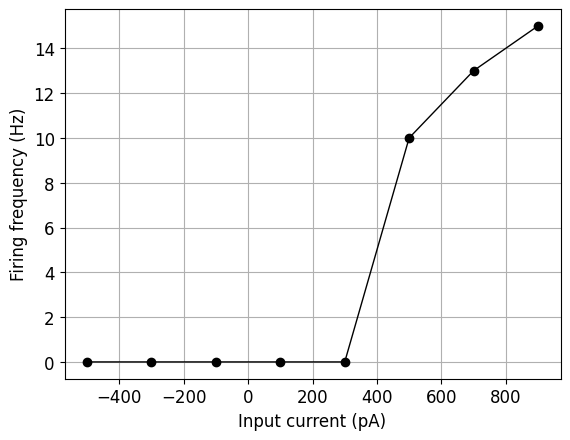
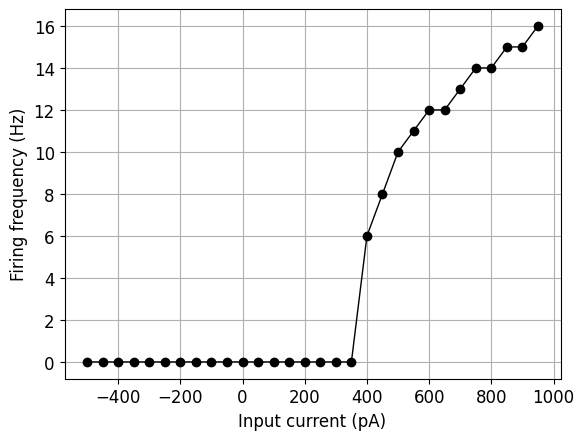
First Working Version of the Standardised MD Script

diff --git a/Standardised_MD_Script/MD-script.py b/Standardised_MD_Script/MD-script.py
@@ -1,93 +1,261 @@
-#
-#
-#
-#
+from pyneuroml.pynml import read_lems_file, read_neuroml2_file
+from pyneuroml.plot import PlotMorphology, generate_plot
+from pyneuroml.analysis import generate_current_vs_frequency_curve
 
-from pyneuroml.pynml import *
-from pyneuroml.plot import PlotMorphology
-from pyneuroml.analysis import NML2ChannelAnalysis, generate_current_vs_frequency_curve
+import numpy as np
+import subprocess
+import argparse
+
+def command_line_parser():
+    """Parse command-line arguments.
+
+    :returns: None
+    """
+    parser = argparse.ArgumentParser(
+        description = "A script which can generate a standardised MD document displaying all key behaviours of an NML cell model"
+    )
+
+    parser.add_argument(
+        "-model",
+        type = str,
+        metavar = "<model>",
+        help = "Get cell model name",
+        required = True
+    )
+
+    parser.add_argument(
+        "-cellfile",
+        type = str,
+        metavar = "<cellfile>",
+        help = "Get NML2 cell file",
+        required = True
+    )
+
+    parser.add_argument(
+        "-netfile",
+        type = str,
+        metavar = "<netfile>",
+        help = "Get NML2 network file",
+        default = "False",
+        required = False
+    )
+
+    parser.add_argument(
+        "-lemsfile",
+        type = str,
+        metavar = "<lemsfile>",
+        help = "Get LEMS simulation file",
+        default = "False",
+        required = False
+    )
+
+    """
+    parser.add_argument(
+        "-nogui",
+        action = "store_true",
+        help = "Do not plot matplotlib generated graphs",
+        default = False
+    )
+    """
+    
+    parser.add_argument(
+        "-nosim",
+        action = "store_true",
+        help = "Do not perform simulations and use already existing files",
+        default = False
+    )
+
+    parser.add_argument(
+        "-nomd",
+        action = "store_true",
+        help = "Do not create a new MD or alter an existing MD file",
+        default = False
+    )
+    
+    return parser.parse_args()
+
+def generate_morphology(file, name, save = True, nogui = False):
+    if save:
+        file = "imgs/" + name + ".png"
+    else:
+        file = None
+
+    PlotMorphology.plot_2D(
+        file,
+        nogui = nogui,
+        save_to_file = "imgs/" + name + ".png",
+        title = name
+        )
+
+def get_channels_from_info(info):
+    info = info.split("\n")
+    channels = info[5]
+    channels = eval(channels[15:])
+    return channels
+
+def run_channel_analysis(channels, save = False, nogui = False):
+    script_name = "channel-analysis-script.sh"
+
+    if save:
+        file = "imgs/" + name + ".png"
+    else:
+        file = None
+
+    #Create pynml-channelanalysis bash command
+    command = "pynml-channelanalysis"
+    for i in range(len(channels)):
+        command = command + " generatedNeuroML2/" + str(channels[i]) + ".channel.nml"
+
+    try:
+        with open(script_name, "x") as file:
+            pass
+    except FileExistsError:
+        pass
+
+    with open(script_name, 'w') as file:
+        file.write(command)
+
+    result = subprocess.run(['bash', script_name], stderr="PIPE")
+
+    if result.returncode == 0:
+        print(result.stderr)
+
+def generate_if_iv(file, name, cell, start = -0.5, end = 1, step = 0.05, time = 0.025, duration = 1000, delay = 0, save = False, pre = 0, post = 0, nogui = False):
+    if save:
+        vt_name = "imgs/" + name + "_Vtraces.png"
+        if_name = "imgs/" + name + "IF.png"
+        iv_name = "imgs/" + name + "IV.png"
+    else:
+        vt_name = None
+        if_name = None
+        iv_name = None
+
+    generate_current_vs_frequency_curve(
+        file,
+        cell,
+        start_amp_nA = start,
+        end_amp_nA = end,
+        step_nA = step,
+        dt = time,
+        simulator = "jNeuroML_NEURON",
+        plot_voltage_traces = not nogui,
+        plot_iv = not nogui,
+        plot_if = not nogui,
+        analysis_duration = duration,
+        analysis_delay = delay,
+        save_voltage_traces_to = vt_name,
+        save_if_figure_to = if_name,
+        save_iv_figure_to = iv_name,
+        pre_zero_pulse = pre,
+        post_zero_pulse = post
+        )
+
+def generate_if_iv_custom(file, name, cell, custom = [-0.5,0,0.5,1], time = 0.025, duration = 1000, delay = 0, save = False, pre = 0, post = 0, nogui = False):
+    if save:
+        vt_name = "imgs/" + name + "_Vtraces.png"
+    else:
+        vt_name = None
+
+    generate_current_vs_frequency_curve(
+        file,
+        cell,
+        custom_amps_nA = custom,
+        dt = time,
+        simulator = "jNeuroML_NEURON",
+        plot_voltage_traces = not nogui,
+        plot_iv = not nogui,
+        plot_if = not nogui,
+        analysis_duration = duration,
+        analysis_delay = delay,
+        save_voltage_traces_to = vt_name,
+        pre_zero_pulse = pre,
+        post_zero_pulse = post
+        )
+
+def generate_custom_plot(dat_file, delay = False, save = False, nogui = False):
+    data_array = np.loadtxt(dat_file)
+    l1 = int(len(data_array[:,0]) / 11)
+    l2 = int(len(data_array[:,1]) / 11)
+    if delay:
+        data_array = data_array[l1:]
+
+    if not save:
+        file = None
+    else:
+        file = save
+
+    generate_plot(
+        [data_array[:, 0]], [data_array[:, 1]],
+	    "Membrane potential", show_plot_already = not nogui,
+        save_figure_to = file,
+	    xaxis="time (s)", yaxis="membrane potential (V)"
+        )
 
 if __name__ == "__main__":
-    #file = input("Enter the network file: ")
-    #cell_file = input("Enter the cell file: ")
-    #lems_file = input("Enter the LEMS file: ")
-
+    #Parse Command Line
+    args = command_line_parser()
+    print(args)
+    
     #NeuroML and LEMS files
-    #file = "../L5bPyrCellHayEtAl2011.net.nml"
-    name = "Hay2011L5bPyramidalCell"
+    name = args.model
     file_name = name + ".md"
-    file = "generatedNeuroML2/TestL5PC.net.nml"
-    cell_file = "generatedNeuroML2/L5PC.cell.nml"
-    lems_file = "generatedNeuroML2/LEMS_TestL5PC.xml"
+    file = args.netfile
+    cell_file = args.cellfile
+    lems_file = args.lemsfile
 
     #Load NML2 and LEMS Models
     lems_model = read_lems_file(lems_file, include_includes=True)
     nml_doc = read_neuroml2_file(cell_file, include_includes=True)
     cell = nml_doc.cells[0]
     print('%s %s' %(cell.id, cell.notes))
-
-    #List Channels
-    #info = cell_info(cell)
-    #print('%s' %(info))
-
-    #Plot Morphology
-    PlotMorphology.plot_2D(
-        file,
-        nogui = True,
-        save_to_file="imgs/" + name + ".png",
-        title = name
-        )
+    print(cell.id)
     
-    #Get Includes
+    #Get Metadata
     info = nml_doc.summary(show_includes=True)
-    print(info)
+    channels = get_channels_from_info(info)
 
-    #IV & IF Curves
-    """
-    generate_current_vs_frequency_curve(
-        file,
-        "L5PC",
-        start_amp_nA = -0.5,
-        end_amp_nA = 1,
-        step_nA = 0.2,
-        dt=0.025,
-        simulator="jNeuroML_NEURON",
-        plot_voltage_traces=True,
-        plot_iv = True,
-        analysis_duration=1000,
-        analysis_delay=0,
-        save_if_figure_to="imgs/" + name + "IF.png",
-        save_iv_figure_to="imgs/" + name + "IV.png"
-        )
-    """
+    if not args.nosim:
+        #Plot Morphology
+        #generate_morphology(file, name, save = False, nogui = False)
 
-    #Extract Cell Name
-    #Extract Metadata
-    #Get 2D/3D Morphology
-    #Get list of channels, channel analysis, etc
-    #Get IF & IV curves
-    #Maybe: Get greater network, inputs and outputs
+        #Channel Analysis
+        #run_channel_analysis(channels, save = False, nogui = False)
 
-    try:
-        with open(file_name, "x") as file:
-            pass
-    except FileExistsError:
+        #IV & IF Curves
+        generate_if_iv(file, name, cell.id, save = True, nogui = False, pre = 200, post = 200)
+        generate_if_iv_custom(file, name, cell.id, custom = [-1.0, -0.5, -0.2, 1.0], save = True, pre = 200, post = 200, nogui = False)
+
         pass
 
-    with open(file_name, "w") as file:
-        file.write("# " + name + "\n\n")  #Write Cell Name
-        #file.write()    #Write Metadata
-        #file.write()    #Write 2D View
-        #file.write()    #Write 3D View
-        #file.write()    #Write List of Channels
-        #file.write()    #Write Channel Analysis
-        #file.write()    #Write IF Curve
-        #file.write()    #Write IV Curve
-        file.write("%s %s" %(cell.id, cell.notes) + "\n\n")
-        file.write('<img src="imgs/' + name + '.png" height="300" />' + "\n\n")
-        file.write(info + "\n\n")
-        file.write("![IFplot](imgs/" + name + "IF.png)" + "\n\n")
-        file.write("![IVplot](imgs/" + name + "IV.png)" + "\n\n")
+    if not args.nomd:
+        try:
+            with open(file_name, "x") as file:
+                pass
+        except FileExistsError:
+            pass
 
-    with open(file_name, "r") as file:
-        print(file.read())
+        with open(file_name, "w") as file:
+            file.write("# " + name + "\n\n")  #Write Cell Name
+            file.write("%s %s" %(cell.id, cell.notes) + "\n\n")
+            file.write('<img src="imgs/' + name + '.png" height="300" />' + "\n\n")
+            #Add 3D Morphology
+            #file.write("")
+            
+            file.write("# Channel Information" + "\n\n")
+            file.write("Ion Channels: " + str(channels) + "\n\n")
+            file.write('<table border="1">')
+            """
+            file.write("    <tr>")
+            file.write("        <td>Channels</td>")
+            file.write("    </tr>")
+            """
+            file.write('</table>' + "\n\n")
+            #file.write("")
+
+            file.write("# Electrophysiology" + "\n\n")
+            file.write('<img src="imgs/' + name + '_Vtraces.png" />' + "\n\n")
+            file.write('<img src="imgs/' + name + 'IF.png" />' + "\n\n")
+            file.write('<img src="imgs/' + name + 'IV.png" />' + "\n\n")
+            #Add Voltage Traces
+
+    print("\n")

diff --git a/Standardised_MD_Script/Hay2011L5bPyramidalCell.md b/Standardised_MD_Script/Hay2011L5bPyramidalCell.md
@@ -4,16 +4,17 @@ L5PC Cell: L5PCtemplate_0 exported from NEURON ModelView
 
 <img src="imgs/Hay2011L5bPyramidalCell.png" height="300" />
 
-*******************************************************
-* NeuroMLDocument: L5PC
-*
-*  ComponentType: ['Ca_LVAst_h_tau_tau', 'Ca_LVAst_m_tau_tau', 'K_Pst_h_tau_tau', 'K_Pst_m_tau_tau', 'K_Tst_h_tau_tau', 'K_Tst_m_tau_tau', 'Nap_Et2_m_tau_tau', 'SK_E2_z_inf_inf', 'SK_E2_z_tau_tau', 'SKv3_1_m_tau_tau']
-*  Cell: ['L5PC']
-*  IonChannel: ['Ca_HVA', 'Ca_LVAst', 'Ih', 'Im', 'K_Pst', 'K_Tst', 'NaTa_t', 'Nap_Et2', 'SK_E2', 'SKv3_1', 'pas']
-*
-*******************************************************
+# Channel Information
 
-![IFplot](imgs/Hay2011L5bPyramidalCellIF.png)
+Ion Channels: ['Ca_HVA', 'Ca_LVAst', 'Ih', 'Im', 'K_Pst', 'K_Tst', 'NaTa_t', 'Nap_Et2', 'SK_E2', 'SKv3_1', 'pas']
 
-![IVplot](imgs/Hay2011L5bPyramidalCellIV.png)
+<table border="1"></table>
+
+# Electrophysiology
+
+<img src="imgs/Hay2011L5bPyramidalCell_Vtraces.png" />
+
+<img src="imgs/Hay2011L5bPyramidalCellIF.png" />
+
+<img src="imgs/Hay2011L5bPyramidalCellIV.png" />
 
